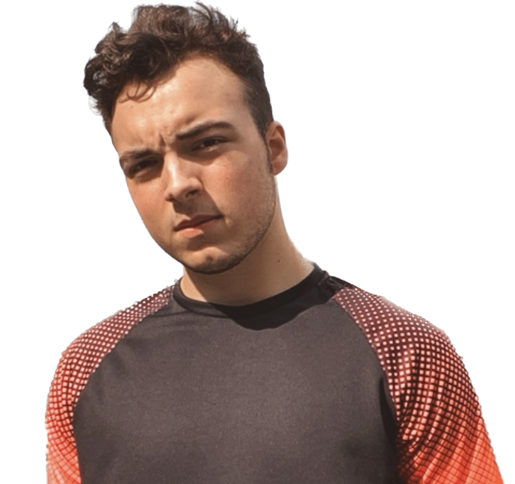
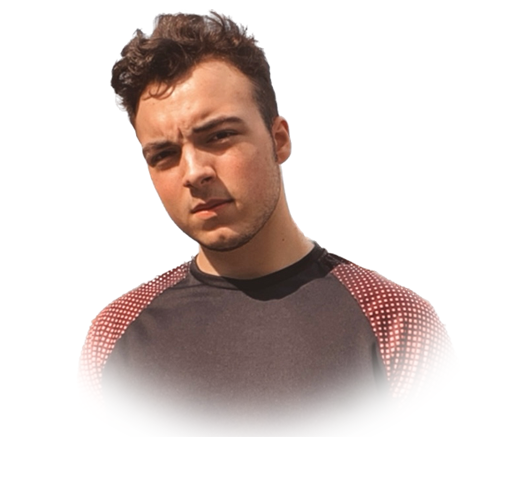
photo updated

diff --git a/index.html b/index.html
@@ -75,7 +75,6 @@
               alt="Foto Renan Beraldi"
               class="about__img"
             />
-            <div class="img__shadow"></div>
           </div>
         </div>
       </section>
